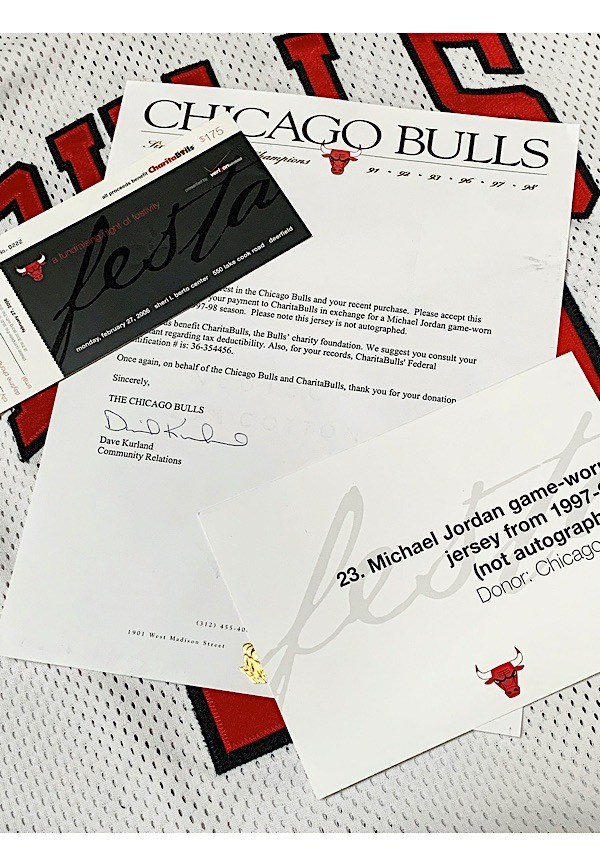
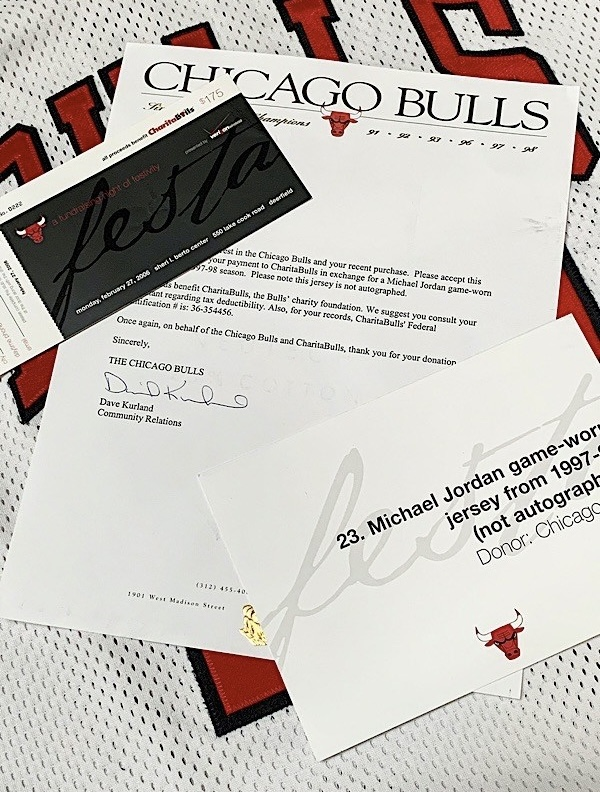
up

diff --git a/articles/article.css b/articles/article.css
@@ -152,9 +152,7 @@ body{
 
 .figure-full img{
   width: 100%;
-  max-height: 520px;
-  object-fit: contain;
-  margin: 0 auto;
+  
 }
 
 .figure-full figcaption{
